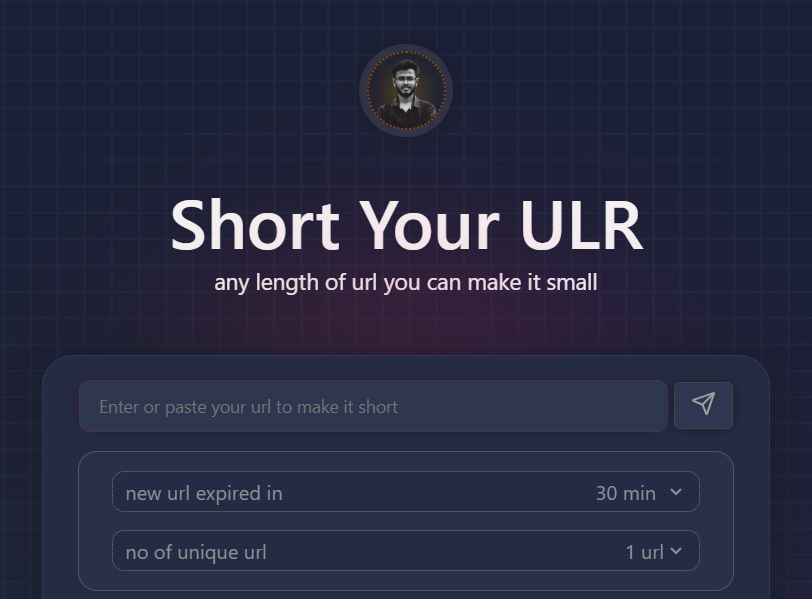
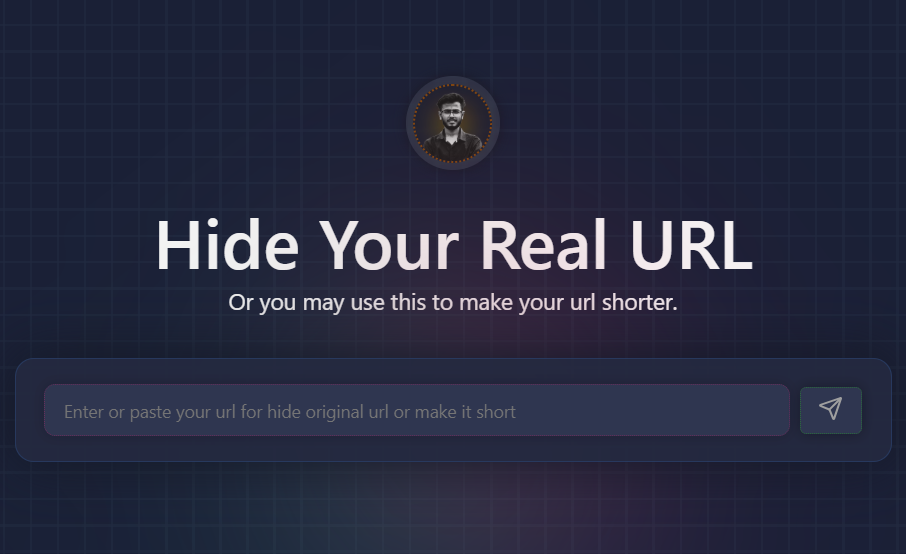
live url decoder or shortener

diff --git a/index.html b/index.html
@@ -350,7 +350,7 @@
 
                                         </div>
                                         <div class="pc_title">
-                                            <span>URL Shortener</span>
+                                            <span>URL</span>
                                         </div>
                                         <div class="pc_visit_btn">
                                             <button class="button2" onclick="OpenLinkInNewTab('https://vishalkumar07.me/url-shortener/')">Live Link</button>
